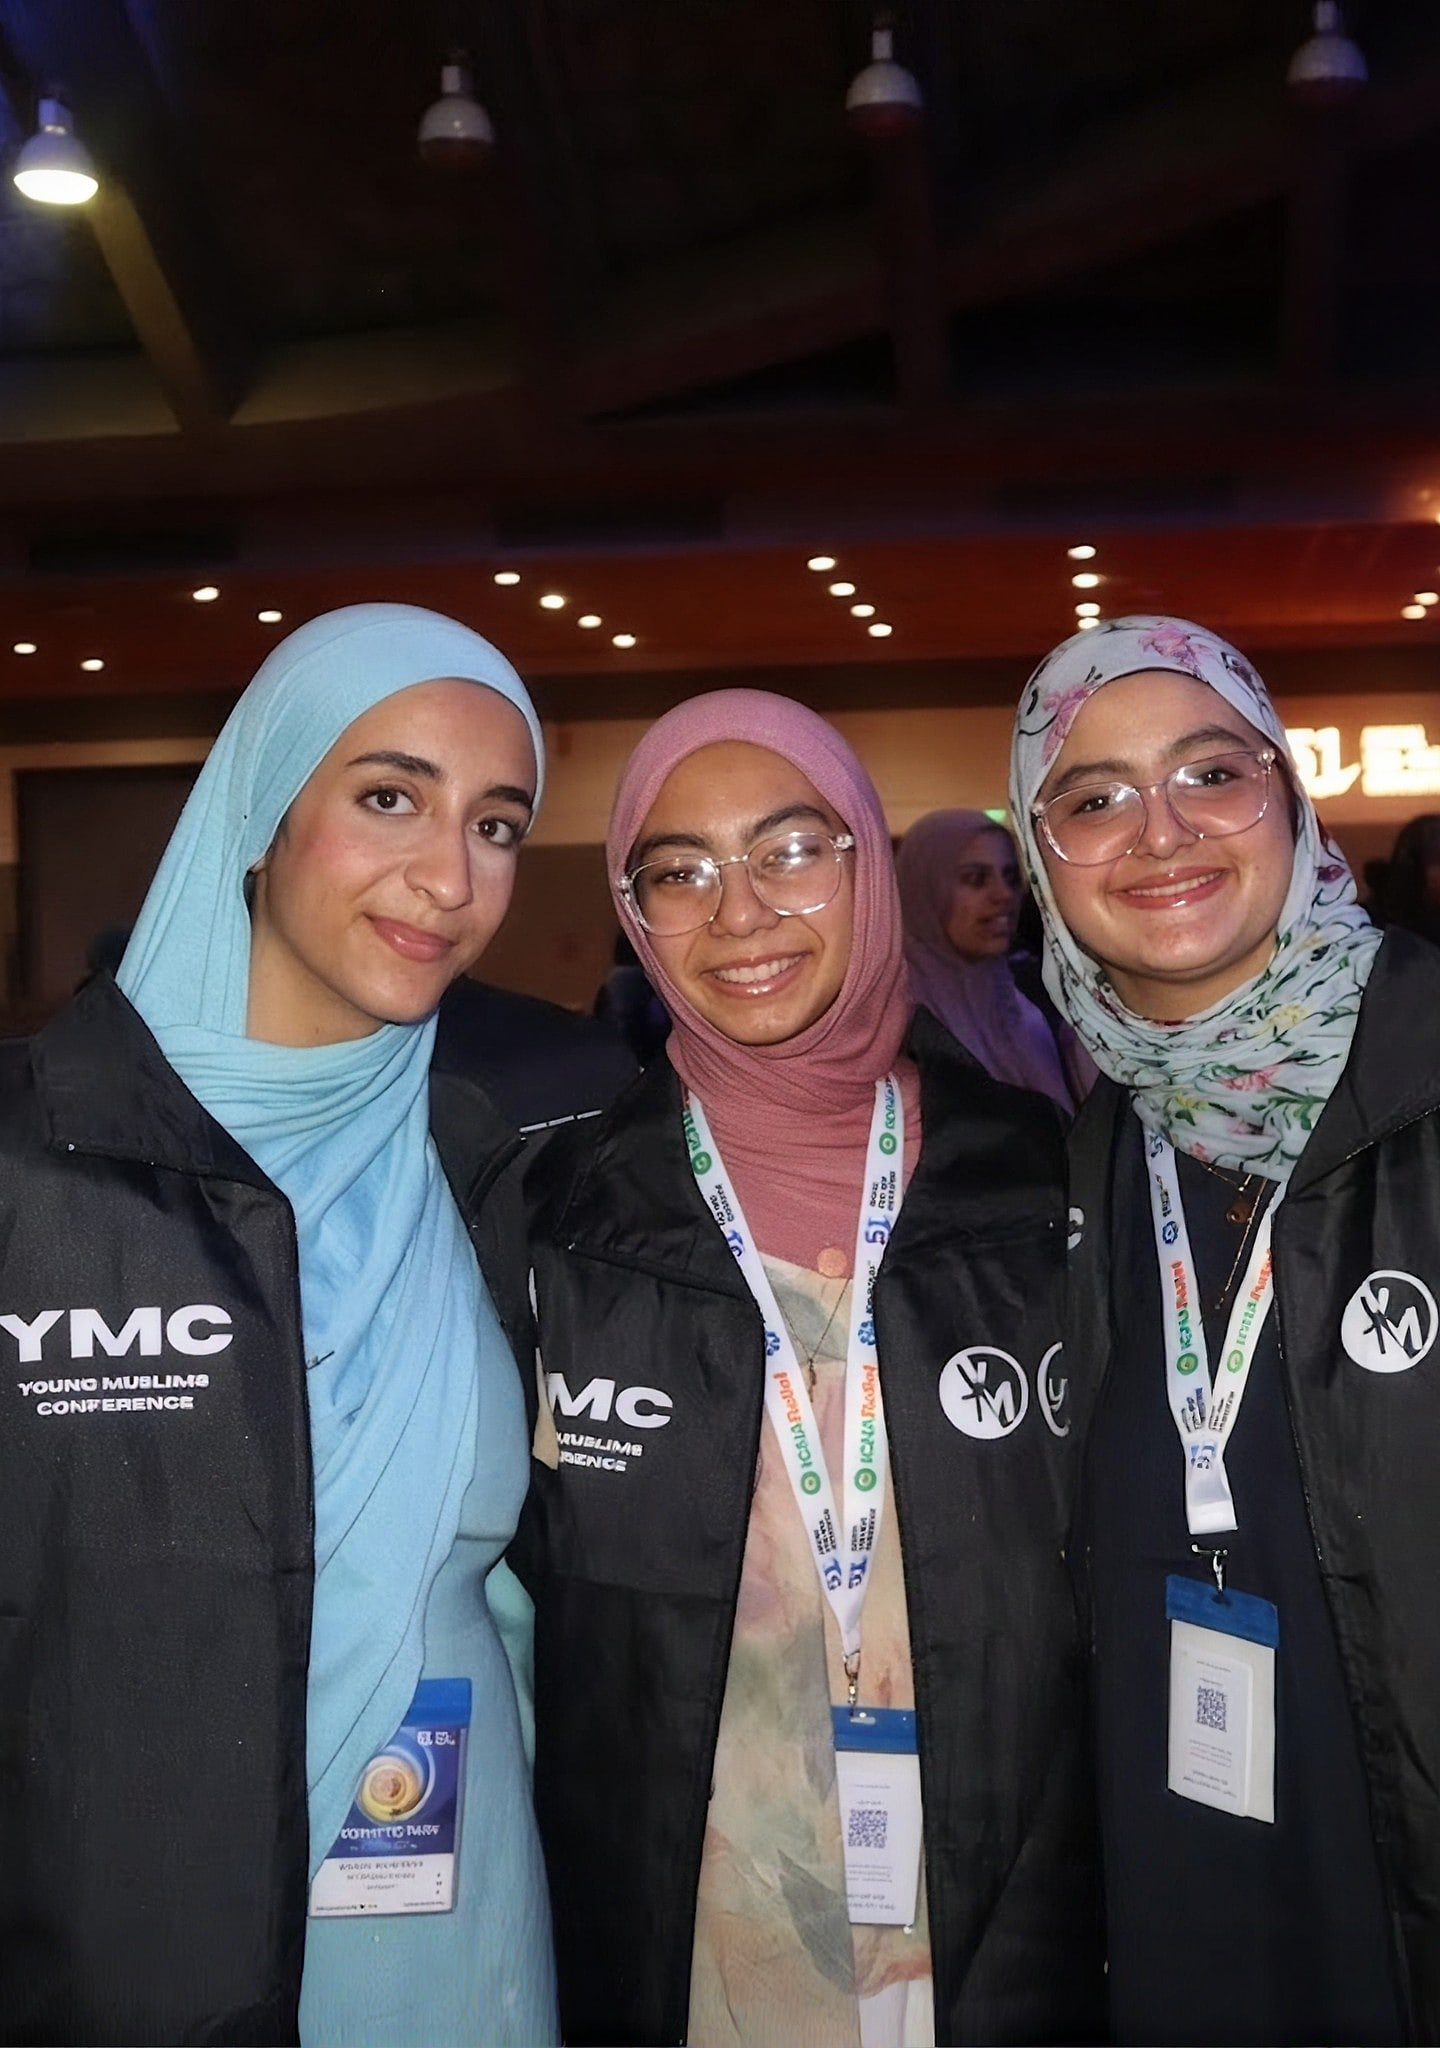
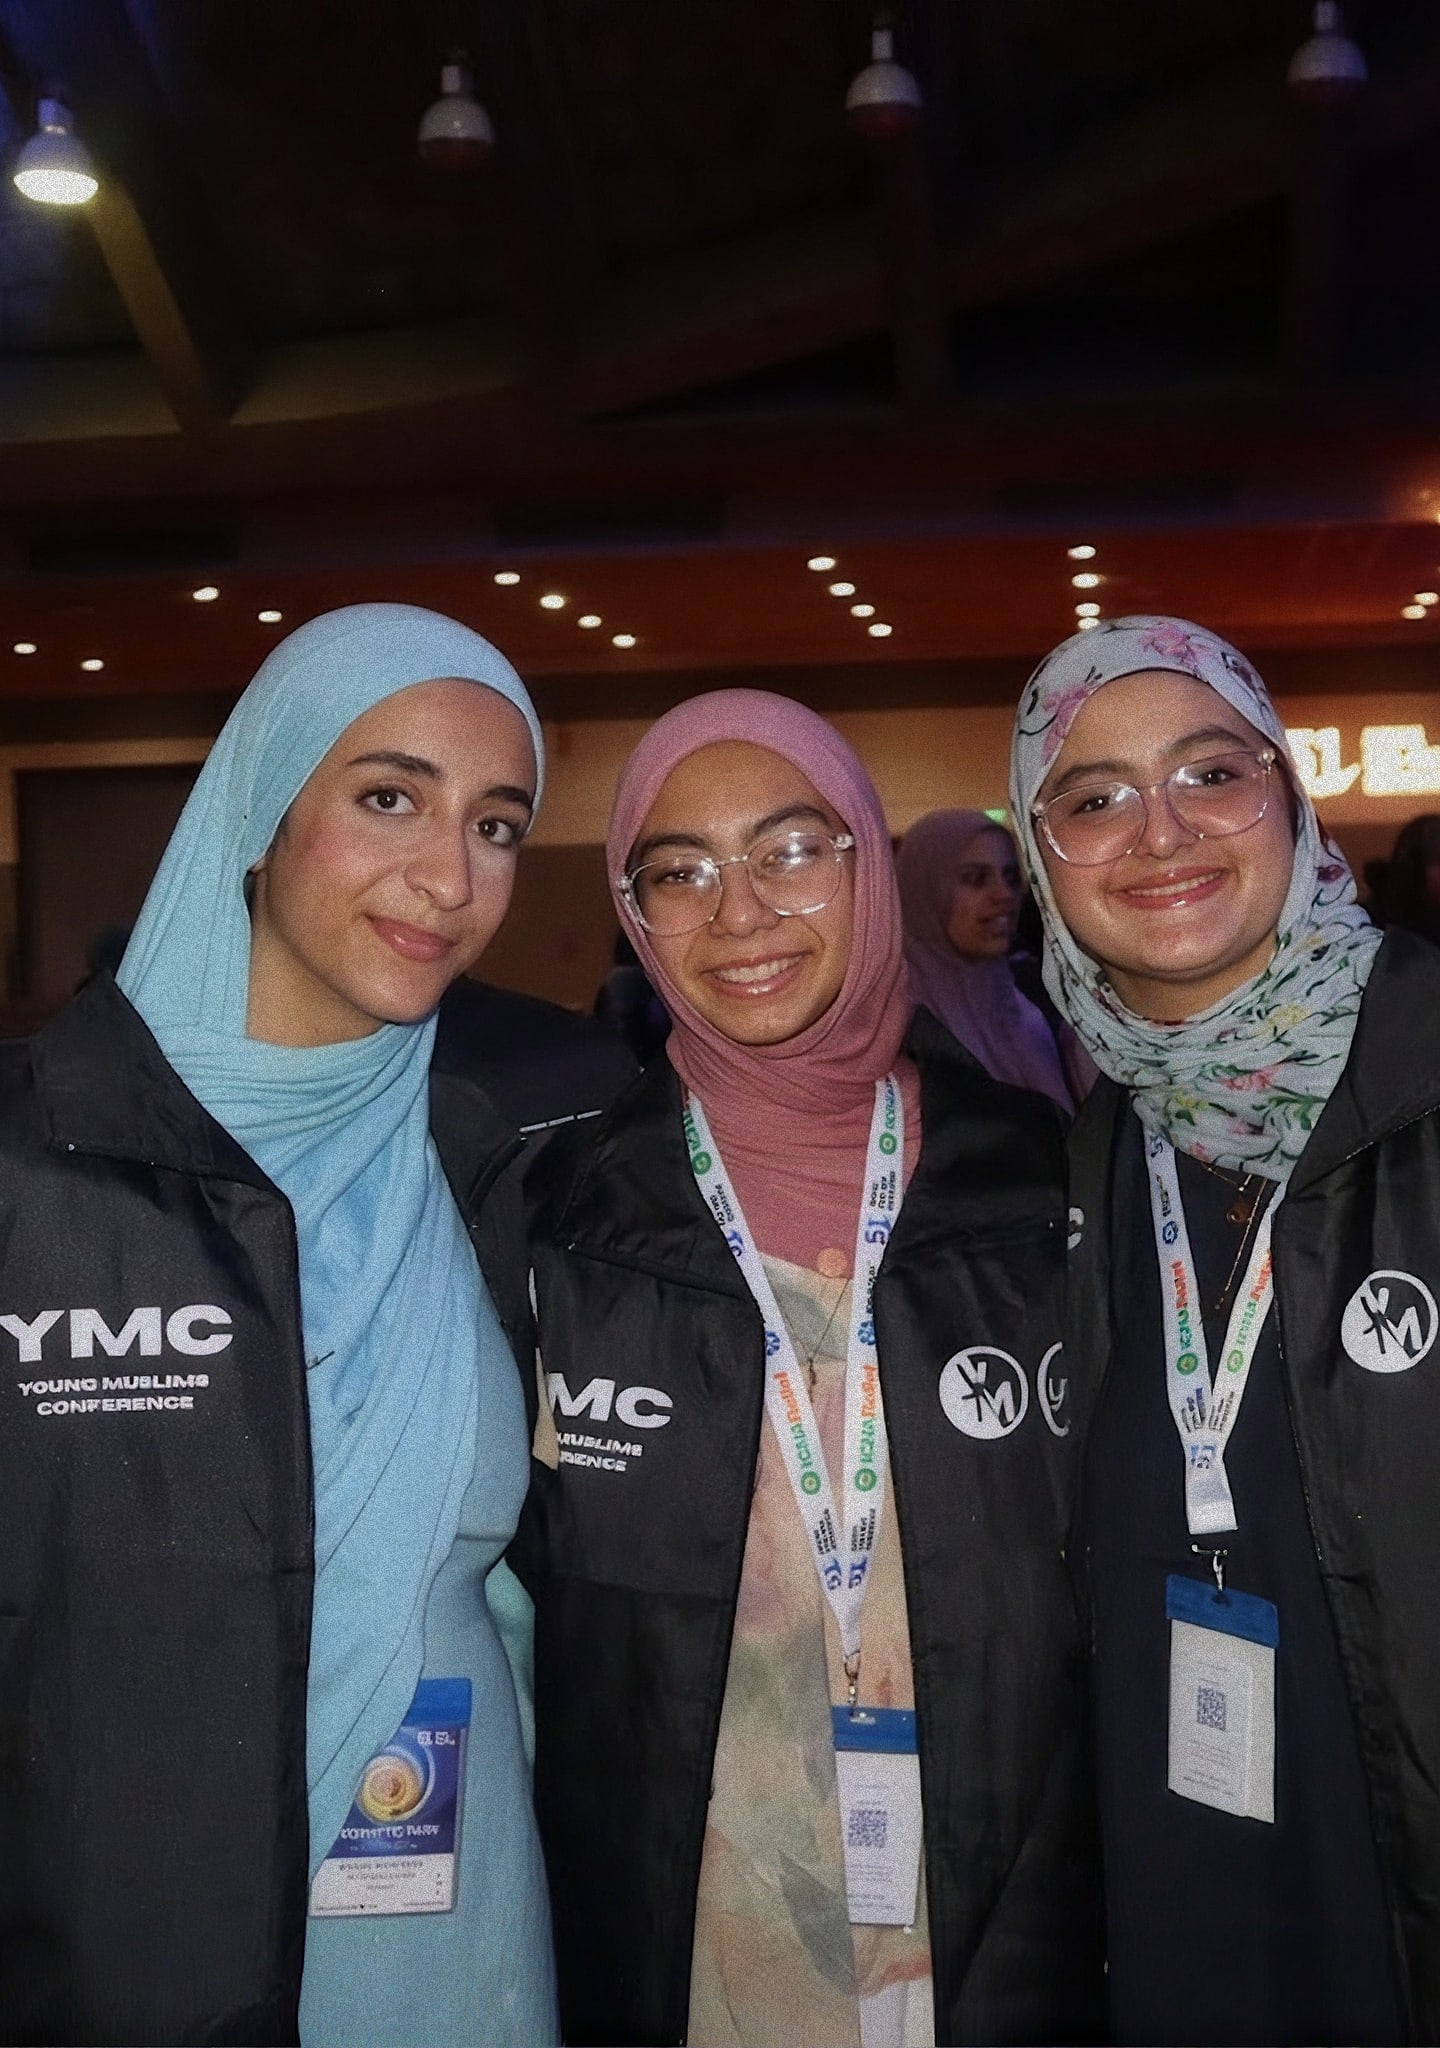
fix: About hero + leadership grain — remove hero grain, bake leadership grain (iPhone scroll lag)

diff --git a/src/app/about/about-hero.tsx b/src/app/about/about-hero.tsx
@@ -1,17 +1,14 @@
 import { getImageProps } from "next/image";
 import type { ReactNode } from "react";
 
-import { GrainFilter } from "@/components/site/grain-filter";
 import {
   StickyHero,
   stickyHeroMediaClassName,
 } from "@/components/site/sticky-hero";
-import { cn } from "@/lib/utils";
 
 import heroDesktop from "../../../design-assets/figma/about/hero/hero-desktop.jpg";
 import heroMobile from "../../../design-assets/figma/about/hero/hero-mobile.jpg";
 import heroTablet from "../../../design-assets/figma/about/hero/hero-tablet.jpg";
-import styles from "./about-hero.module.css";
 
 const ALT =
   "A large group of Young Muslims brothers holding up red and blue YM flags";
@@ -19,7 +16,8 @@ const ALT =
 /**
  * The photo, art-directed: each frame's crop of the group with the YM flags
  * (scripts/about-hero-assets.mjs), desktop from `xl`, tablet from `md`,
- * mobile below. It covers the hero and carries the site's film grain.
+ * mobile below. It covers the hero. No film grain, by design (the other
+ * photo heroes have it): a clean photo.
  */
 function HeroPhoto() {
   const common = { alt: ALT, sizes: "100vw", loading: "eager" as const };
@@ -41,7 +39,7 @@ function HeroPhoto() {
         {...img}
         alt={ALT}
         fetchPriority="high"
-        className={cn(stickyHeroMediaClassName, styles.grain)}
+        className={stickyHeroMediaClassName}
       />
     </picture>
   );
@@ -51,7 +49,7 @@ function HeroPhoto() {
  * The About ("Who we are") hero (Figma 507:3, tablet 595:1782, mobile
  * 596:2493): the site's sticky shell (StickyHero) with a photo, built as the
  * Stories and NeighborNets heroes are. The group with the YM flags fills the
- * viewport under the site's film grain and the light Obsidian tint, with
+ * viewport under the light Obsidian tint (no film grain), with
  * "ROOTED LOCALLY. GROWING TOGETHER." and its subline centred over them.
  * The rest of the page scrolls up over the pinned hero behind this page's
  * own wave (AboutHeroWave), and the header scrim follows StickyHero's
@@ -64,7 +62,6 @@ export function AboutHero({ children }: { children: ReactNode }) {
       wave="about"
       media={
         <>
-          <GrainFilter id="about-hero-grain" />
           <HeroPhoto />
           {/* A light Obsidian tint keeps the white title legible over the
               busy photo, as on the other heroes. */}

diff --git a/src/app/about/leadership-section.tsx b/src/app/about/leadership-section.tsx
@@ -1,6 +1,5 @@
 import Image, { getImageProps, type StaticImageData } from "next/image";
 
-import { GrainFilter } from "@/components/site/grain-filter";
 import { TextReveal } from "@/components/site/text-reveal";
 import { cn } from "@/lib/utils";
 
@@ -67,7 +66,10 @@ const GROUPS: Group[] = [
 
 /**
  * A photo filling the pinned panel, art-directed: Figma's desktop crop from
- * `xl`, its tablet crop from `md` (the panel only shows from `md`).
+ * `xl`, its tablet crop from `md` (the panel only shows from `md`). Figma's
+ * grain is baked into every crop (scripts/about-leadership-assets.mjs), not
+ * a live filter: the panel's sweeps repaint the photo every frame, and
+ * Safari runs a live SVG filter on the CPU.
  */
 function PanelPhoto({ group }: { group: Group }) {
   const common = { alt: group.alt, sizes: "50vw" };
@@ -84,7 +86,7 @@ function PanelPhoto({ group }: { group: Group }) {
       <img
         {...img}
         alt={group.alt}
-        className={cn("absolute inset-0 size-full object-cover", styles.grain)}
+        className="absolute inset-0 size-full object-cover"
       />
     </picture>
   );
@@ -119,7 +121,6 @@ export function LeadershipSection() {
       aria-label="Building leaders"
       className="relative text-brand-obsidian md:grid md:grid-cols-2"
     >
-      <GrainFilter id="leadership-grain" />
       <div aria-hidden="true" className="hidden md:block">
         <LeadershipPanel
           className={styles.panel}
@@ -150,7 +151,7 @@ export function LeadershipSection() {
                   src={group.photo.mobile}
                   alt={group.alt}
                   sizes="100vw"
-                  className={cn("h-auto w-full md:hidden", styles.grain)}
+                  className="h-auto w-full md:hidden"
                 />
                 <div
                   data-leadership-text

diff --git a/src/app/about/leadership-section.module.css b/src/app/about/leadership-section.module.css
@@ -1,10 +1,3 @@
-/* The leadership photos' film grain: the shared filter (GrainFilter,
-   defined in the section as #leadership-grain), standing in for Figma's
-   noise. The noise is static, so it needs no reduced-motion handling. */
-.grain {
-  filter: url(#leadership-grain);
-}
-
 /* The panel's swaps run slower and gentler than BlobReveal's default
    (--duration-leadership-reveal, --ease-leadership-reveal), both sweeping in
    and out. Reduced motion still makes them instant (globals.css). */

diff --git a/DESIGN-SYSTEM.md b/DESIGN-SYSTEM.md
@@ -285,8 +285,8 @@ scrolls up over it. Pass the media (a video or image with
   render, with Figma's brightening of the fill applied, and rendered at the
   resolution its screens need: 2880 / 1536 / 1200 wide, Lanczos-enlarged
   1.40x / 1.26x / 1.83x from the 2051 / 1219 / 656 source pixels each frame
-  shows, lightly sharpened, so the browser never stretches it), under the film
-  grain and a 25% Obsidian tint, with "ROOTED LOCALLY. GROWING TOGETHER."
+  shows, lightly sharpened, so the browser never stretches it), under a 25%
+  Obsidian tint, with no film grain (by design: a clean photo), with "ROOTED LOCALLY. GROWING TOGETHER."
   (two lines from tablet; wrapping on phones, as in Figma) and its subline
   centred in the landing hero's type.
 - The Stories hero (`src/app/stories/stories-hero.tsx`; Figma 401:3520 /
@@ -300,8 +300,8 @@ scrolls up over it. Pass the media (a video or image with
   the entry screen's grain as a shared SVG filter: static fractal noise laid
   over the source as source + 0.24 x (noise - 0.5), so it speckles without
   shifting the average colour. The entry screen's wordmark and monograms and
-  the NeighborNets, Stories and About hero photos (CSS `filter: url(#…)`) use it. It never
-  animates, so reduced motion needs nothing.
+  the NeighborNets and Stories hero photos (CSS `filter: url(#…)`) use it. It never
+  animates, so reduced motion needs nothing. The About hero has no grain, by design.
 - At load the wave's top hump peeks above the fold, as in the 1440 x 1024
   frame.
 - Sticky rather than fixed: the footer Easter egg transforms the page
@@ -727,7 +727,15 @@ The About page's leadership section (Figma 530:273, tablet 595:2007, mobile
   (`scripts/about-leadership-assets.mjs`, into
   `design-assets/figma/about/leadership/`), rendered at the size the
   screens need (desktop 1440 x 2048, tablet 768 x 2048, mobile 1080 x 1449)
-  with Lanczos and light sharpening, under the film grain (Figma's noise).
+  with Lanczos and light sharpening, with Figma's grain baked in, not a live
+  filter (the panel's sweeps repaint the photo every frame, and Safari runs a
+  live SVG filter on the CPU, so a live grain slowed every swap on iPhone).
+  Each IMG frame carries a Figma NOISE effect (MONOTONE, black at 24%,
+  density 1, size 0.5), measured against Figma's own export: each 0.5 px
+  grain darkens its pixels by one random amount, uniform from 0 to 24%, the
+  same on every channel, so the photo reads 12% darker on average. The bake
+  matches it (1 crop px grains at 2x, 1.5 at 3x; mean brightness within
+  0.1% of Figma's export).
   The lake photo's original is 1080 x 1620 and the frames show a small part
   of it: enlarged 2.85x (desktop), 1.91x (tablet), 2.11x (mobile); a larger
   original would make it crisp. The award photo is enlarged 1.33x / 1.26x;
